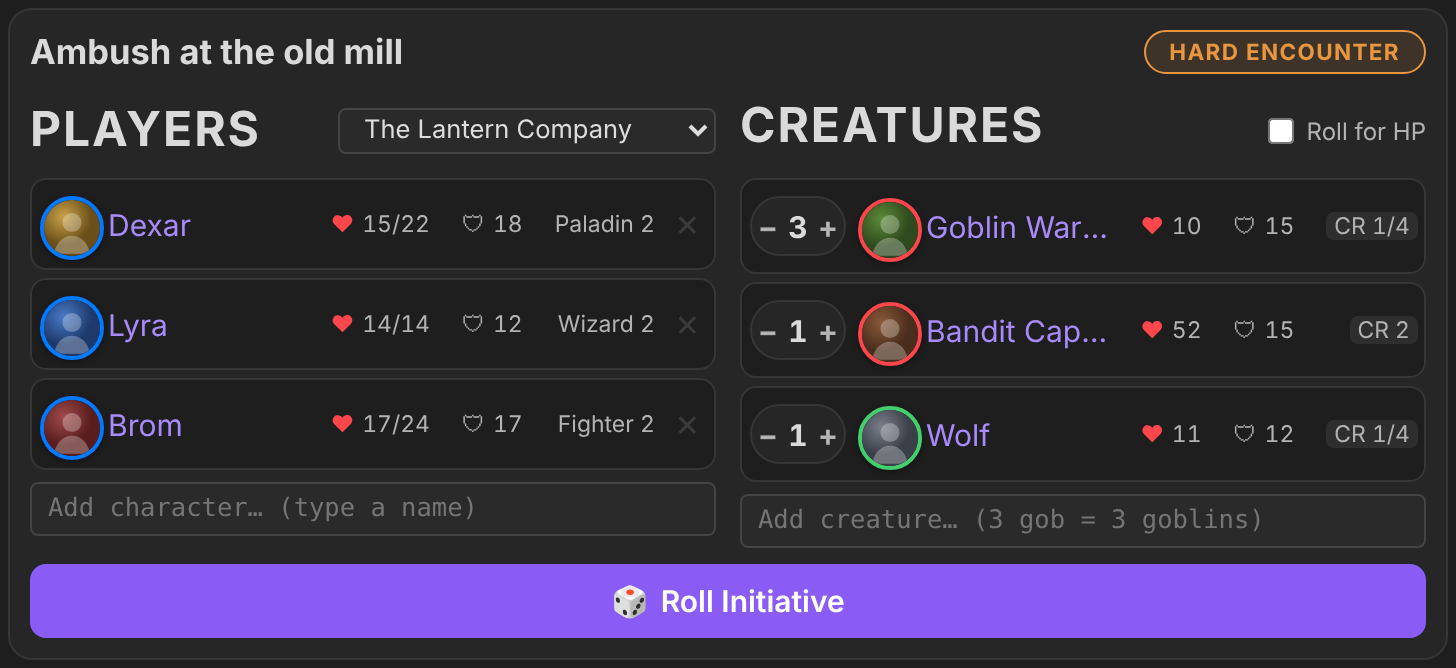
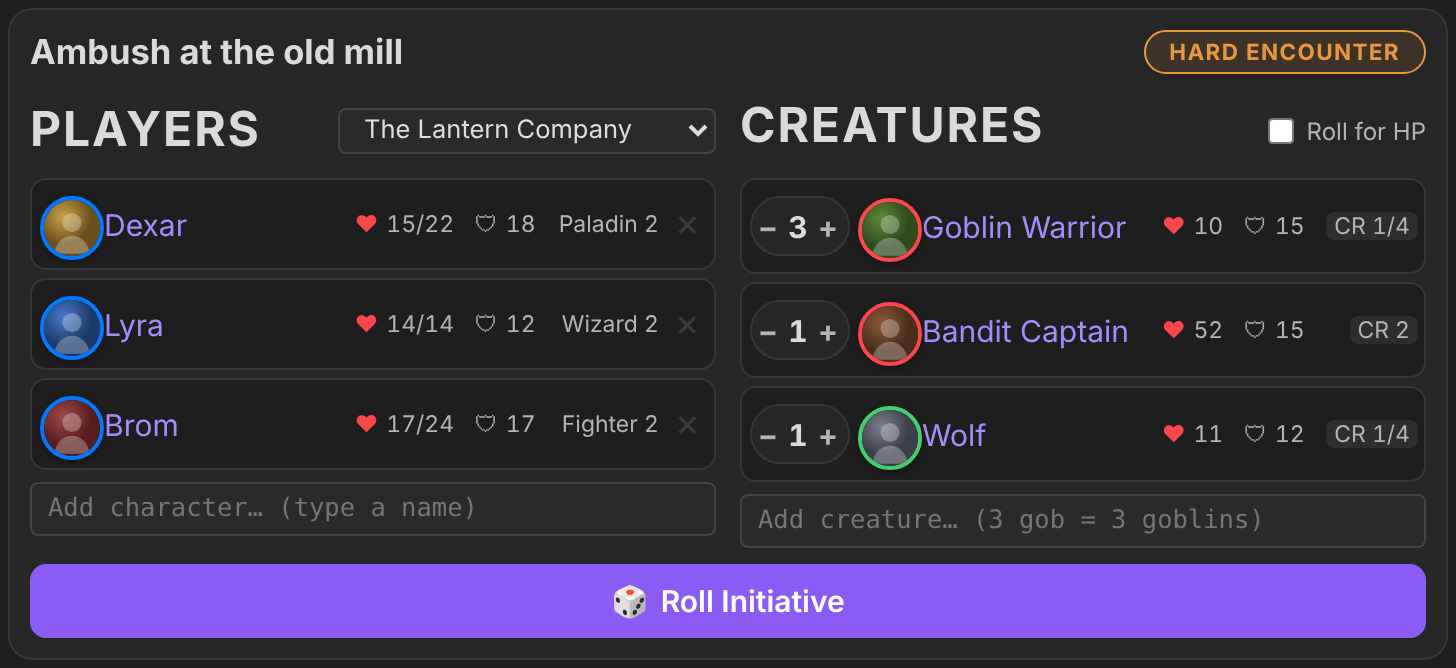
Add files via upload

diff --git a/main.js b/main.js
@@ -575,6 +575,35 @@ function findBlock(lines, locator) {
   return null;
 }
 
+/** Set CSS custom properties without inline style assignment. */
+function setCssVars(el, vars) {
+  if (!el) return;
+  if (typeof el.setCssProps === "function") el.setCssProps(vars);
+  else if (el.style && typeof el.style.setProperty === "function") for (const [k, v] of Object.entries(vars)) el.style.setProperty(k, v);
+}
+
+/** Encounter card lists: make each column (stepper, HP, AC, CR, class) as
+ *  wide as its widest cell, so values line up row to row. */
+function alignCardColumns(list) {
+  if (!list || typeof list.querySelectorAll !== "function") return;
+  const kinds = { stepper: ".ri-enc-stepper", hp: ".ri-enc-stat.is-hp", ac: ".ri-enc-stat.is-ac", cr: ".ri-enc-stat.is-cr", who: ".ri-enc-stat.is-who" };
+  const measure = () => {
+    const reset = {};
+    for (const k of Object.keys(kinds)) reset[`--ri-w-${k}`] = "auto";
+    setCssVars(list, reset);
+    const out = {};
+    for (const [k, sel] of Object.entries(kinds)) {
+      let w = 0;
+      for (const cell of Array.from(list.querySelectorAll(sel))) w = Math.max(w, Math.ceil(cell.getBoundingClientRect().width));
+      if (w > 0) out[`--ri-w-${k}`] = `${w}px`;
+    }
+    setCssVars(list, out);
+  };
+  const win = list.win || (typeof window !== "undefined" ? window : null);
+  if (win && typeof win.requestAnimationFrame === "function") win.requestAnimationFrame(measure);
+  else measure();
+}
+
 // ---------------------------------------------------------------------------
 // Game systems
 // ---------------------------------------------------------------------------
@@ -1904,11 +1933,11 @@ class EncounterUI {
       const ratio = Math.max(0, Math.min(1, s.hp / max));
       const bar = main.createDiv({ cls: "ri-bar" });
       const fill = bar.createDiv({ cls: "ri-bar-fill" });
-      fill.style.width = `${Math.round(ratio * 100)}%`;
+      setCssVars(fill, { "--ri-pct": `${Math.round(ratio * 100)}%` });
       fill.addClass(ratio > 0.5 ? "ri-ok" : ratio > 0.25 ? "ri-hurt" : "ri-bad");
       if (s.temp) {
         const t = bar.createDiv({ cls: "ri-bar-temp" });
-        t.style.width = `${Math.round(Math.min(1, s.temp / max) * 100)}%`;
+        setCssVars(t, { "--ri-temp-pct": `${Math.round(Math.min(1, s.temp / max) * 100)}%` });
       }
     }
 
@@ -2728,6 +2757,7 @@ class EncounterCard extends MarkdownRenderChild {
     // list), and the input below adds character sheets by name.
     const asList = () => plan.players.map((p) => (p.link ? { name: p.name, link: p.link, isLink: true } : { name: p.name, isLink: false }));
     const ul = psec.createEl("ul", { cls: "ri-enc-list" });
+    this.alignLists = [ul];
     if (!plan.players.length) ul.createEl("li", { cls: "ri-empty", text: spec.playersMode === "none" ? "No players - monsters only." : "No characters yet - type a name below." });
     plan.players.forEach((p, i) => {
       const li = ul.createEl("li");
@@ -2782,13 +2812,14 @@ class EncounterCard extends MarkdownRenderChild {
     const chead = csec.createDiv({ cls: "ri-enc-section-head" });
     chead.createEl("h4", { text: "Creatures" });
     const rollLbl = chead.createEl("label", { cls: "ri-enc-rollhp" });
-    if (!this.plugin.sys.rollHp) rollLbl.style.display = "none";
+    if (!this.plugin.sys.rollHp) rollLbl.addClass("ri-hidden");
     const rollCb = rollLbl.createEl("input", { type: "checkbox" });
     rollCb.checked = !!spec.rollHP;
     rollLbl.createSpan({ text: "Roll for HP" });
     rollLbl.title = "On: each creature's HP is rolled from its hit dice when you press Roll Initiative. Off: the statblock's average HP.";
     rollCb.onchange = () => { spec.rollHP = rollCb.checked; save(); };
     const cul = csec.createEl("ul", { cls: "ri-enc-list" });
+    (this.alignLists = this.alignLists || []).push(cul);
     if (!plan.creatures.length) cul.createEl("li", { cls: "ri-empty", text: "No creatures yet - add some below." });
     plan.creatures.forEach((c, i) => {
       const li = cul.createEl("li");
@@ -2838,6 +2869,8 @@ class EncounterCard extends MarkdownRenderChild {
       if (c.stats.cr !== undefined) cr.createSpan({ cls: "ri-enc-cr", text: `CR ${c.stats.cr}` });
       else if (c.stats.threat) cr.createSpan({ cls: "ri-enc-cr", text: c.stats.threat });
     });
+
+    for (const l of this.alignLists) alignCardColumns(l);
 
     // add box (same autocomplete as the tracker)
     const add = csec.createDiv({ cls: "ri-add" });

diff --git a/styles.css b/styles.css
@@ -867,7 +867,6 @@ button.ri-cond:hover {
 	min-height: 26px;
 	display: flex;
 	align-items: center;
-	margin-bottom: 4px !important;
 }
 @container (max-width: 520px) {
 	.ri-enc-columns {
@@ -1098,33 +1097,52 @@ button.ri-cond:hover {
 	width: 18px;
 }
 
-/* ---- lists as aligned grids: every column as wide as its widest value ---- */
+/* ---- aligned columns: each row is a flex line; the plugin measures the
+   widest HP / AC / CR / class cell and sets --ri-w-* on the list, so every
+   column is as wide as its widest value ---- */
 .ri .ri-enc-columns ul.ri-enc-list {
-	display: grid;
-	column-gap: 6px;
-	row-gap: 4px;
-	align-items: center;
-}
-.ri .ri-enc-players ul.ri-enc-list {
-	/* token | name | HP | AC | class+level | x */
-	grid-template-columns: auto minmax(0, 1fr) auto auto auto auto;
-}
-.ri .ri-enc-creatures ul.ri-enc-list {
-	/* - n + | token | name | HP | AC | CR */
-	grid-template-columns: auto auto minmax(0, 1fr) auto auto auto;
+	display: flex;
+	flex-direction: column;
+	gap: 4px;
 }
 .ri .ri-enc-columns ul.ri-enc-list li {
-	grid-column: 1 / -1;
-	display: grid;
-	grid-template-columns: subgrid;
+	display: flex;
 	align-items: center;
+	gap: 4px;
 }
 .ri .ri-enc-columns ul.ri-enc-list li.ri-empty {
 	display: block;
 }
-.ri-enc-columns .ri-enc-stats {
-	display: contents;
+.ri .ri-enc-columns ul.ri-enc-list li > .ri-enc-stepper,
+.ri .ri-enc-columns ul.ri-enc-list li > .ri-token,
+.ri .ri-enc-columns ul.ri-enc-list li > .ri-del {
+	flex: none;
 }
+.ri .ri-enc-columns ul.ri-enc-list li > .ri-enc-stepper {
+	width: var(--ri-w-stepper, auto);
+}
+.ri .ri-enc-columns ul.ri-enc-list li > a,
+.ri .ri-enc-columns ul.ri-enc-list li > span:not(.ri-enc-stats) {
+	flex: 1 1 auto;
+	min-width: 0;
+	overflow: hidden;
+	text-overflow: ellipsis;
+	white-space: nowrap;
+}
+.ri .ri-enc-columns .ri-enc-stats {
+	display: flex;
+	align-items: center;
+	gap: 0;
+	flex: none;
+}
+.ri .ri-enc-columns .ri-enc-stats > .ri-enc-stat {
+	flex: none;
+	box-sizing: border-box;
+}
+.ri .ri-enc-columns .ri-enc-stats > .ri-enc-stat.is-hp { width: var(--ri-w-hp, auto); }
+.ri .ri-enc-columns .ri-enc-stats > .ri-enc-stat.is-ac { width: var(--ri-w-ac, auto); }
+.ri .ri-enc-columns .ri-enc-stats > .ri-enc-stat.is-cr { width: var(--ri-w-cr, auto); }
+.ri .ri-enc-columns .ri-enc-stats > .ri-enc-stat.is-who { width: var(--ri-w-who, auto); }
 .ri-enc-columns .ri-enc-stat,
 .ri-enc-columns .ri-enc-stat.is-hp,
 .ri-enc-columns .ri-enc-stat.is-hp.is-rolled,
@@ -1216,8 +1234,8 @@ button.ri-cond:hover {
 .ri-enc-columns .ri-enc-stat.is-who {
 	padding-left: 10px;
 }
-.ri .ri-enc-columns ul.ri-enc-list {
-	column-gap: 4px;
+.ri .ri-enc-columns ul.ri-enc-list li {
+	gap: 4px;
 }
 .ri .ri-enc-columns ul.ri-enc-list li {
 	padding: 8px 3px 8px 4px;
@@ -1249,4 +1267,20 @@ button.ri-cond:hover {
 }
 .ri-edit .ri-direct {
 	border-style: dashed;
+}
+
+/* creature header sits 4px above its list (lines up with the Players header) */
+.ri .ri-enc-columns .ri-enc-creatures h4 {
+	margin-bottom: 4px;
+}
+
+/* values set from code through CSS variables (no inline styles) */
+.ri-bar-fill {
+	width: var(--ri-pct, 0%);
+}
+.ri-bar-temp {
+	width: var(--ri-temp-pct, 0%);
+}
+.ri-hidden {
+	display: none;
 }

diff --git a/CHANGELOG.md b/CHANGELOG.md
@@ -1,5 +1,12 @@
 # Changelog
 
+## 1.0.1
+- **CSS lint clean:**
+  - removed `subgrid`, `display: contents`, `column-gap` and `!important` from `styles.css`;
+  - the encounter card still lines up its HP / AC / CR / class columns: the plugin now measures each column and sets its width through CSS variables;
+  - long creature names now fit better on the card.
+- **No inline styles:** HP bar widths and the hidden *Roll for HP* option now use CSS variables and classes.
+
 ## 1.0.0
 First public release.
 
